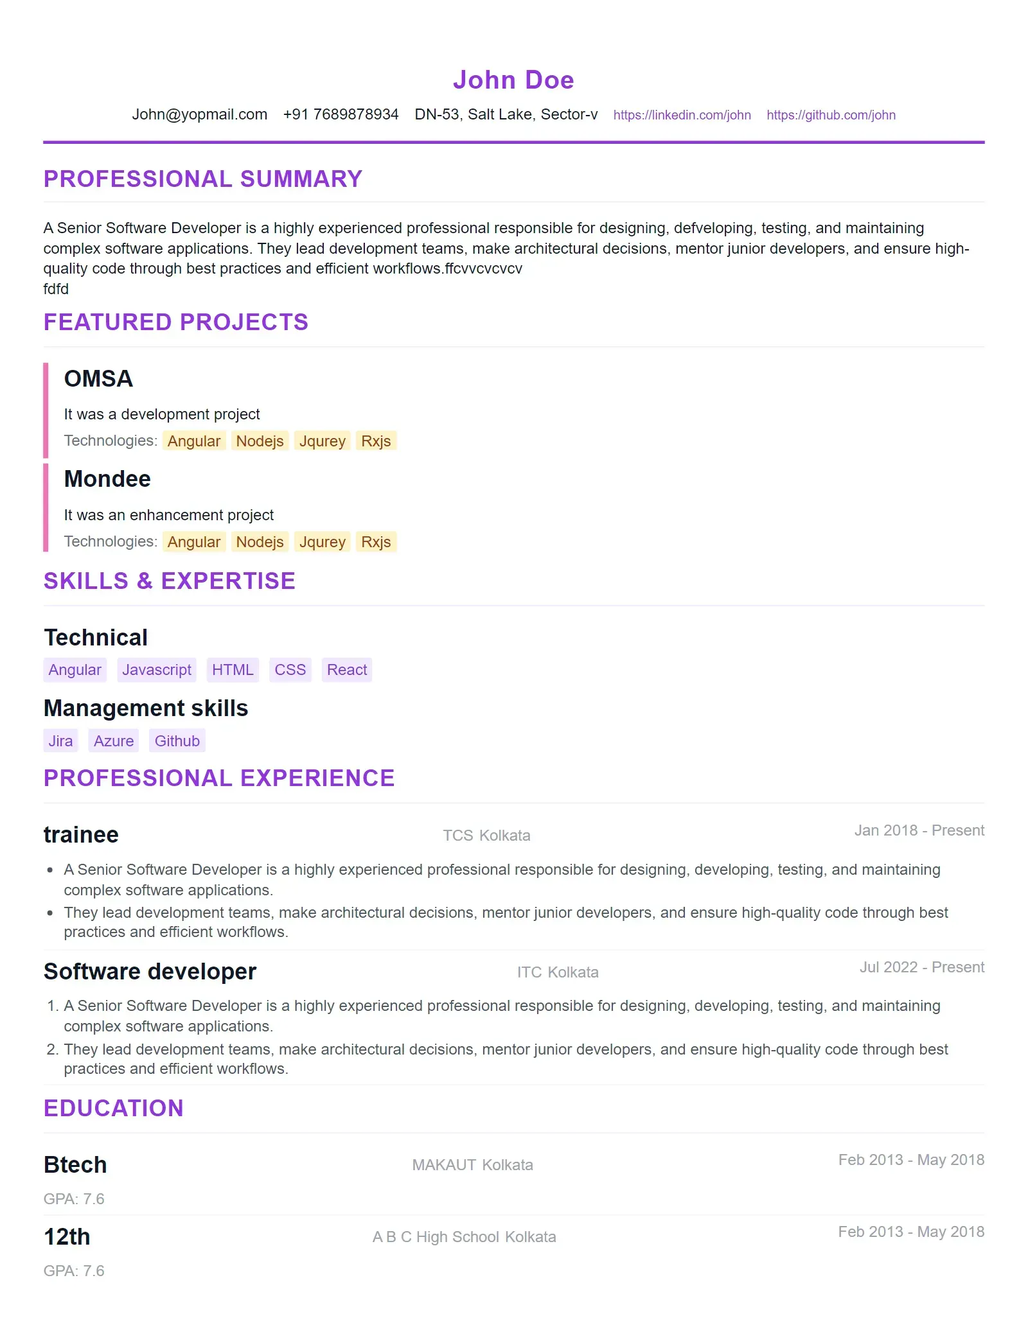
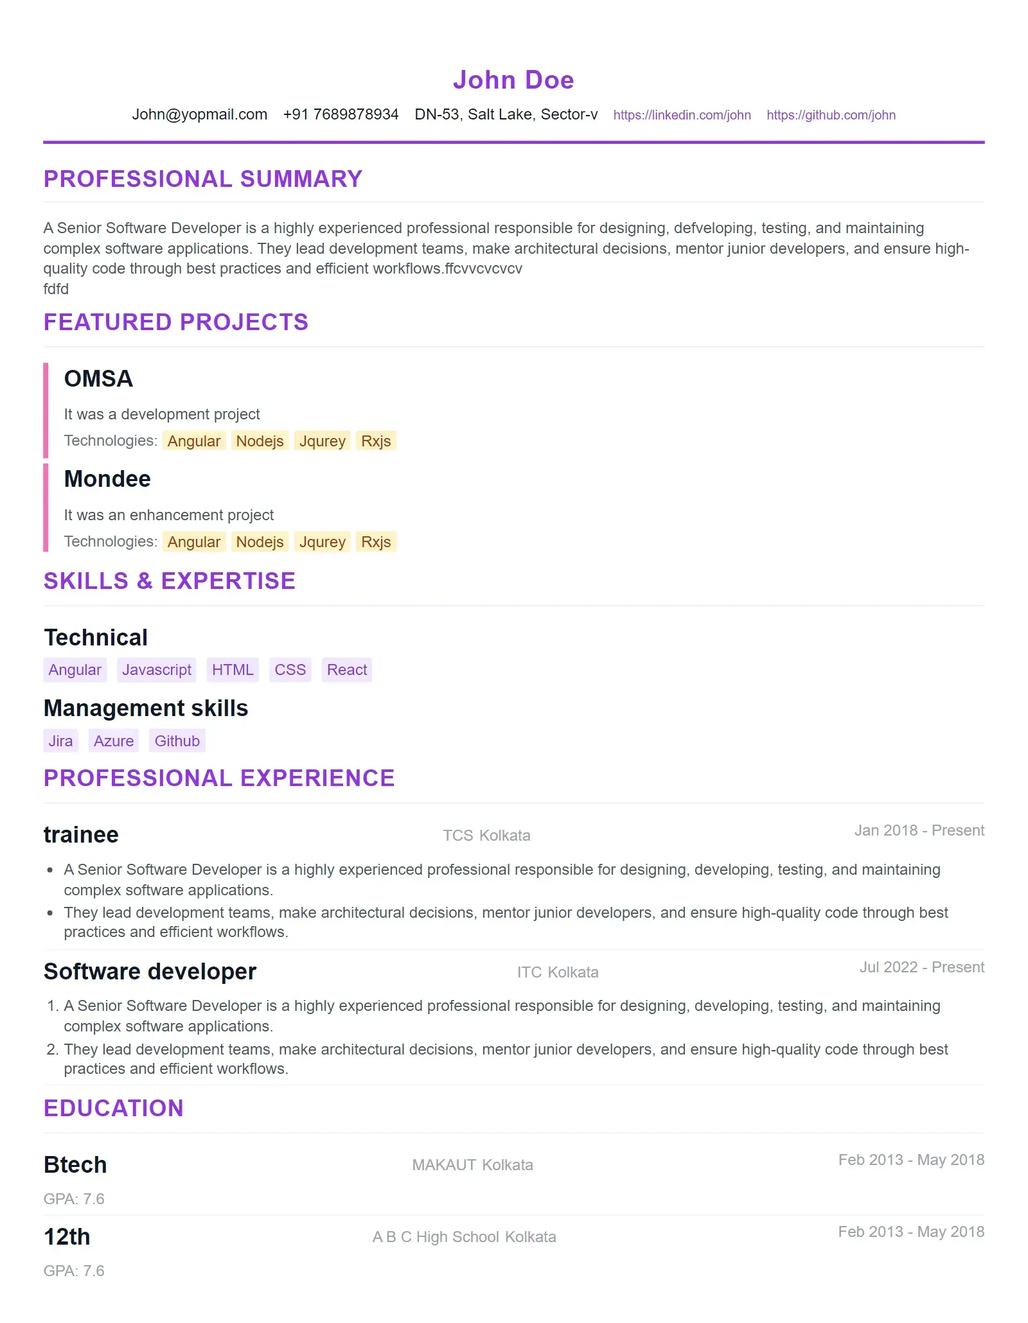
update template classes

Changed region(s): [[0.0312, 0.1864, 0.5, 0.2175]]

diff --git a/backend/assets/professionalTemplate.js b/backend/assets/professionalTemplate.js
@@ -86,7 +86,7 @@ module.exports = [
                 {{#if summary}}
                 <section class="summary secondaryFont">
                 <h2 class="primaryFont">Professional Summary</h2>
-                <div class="summary-text secondaryFont" itemprop="description">{{{summary}}}</div>
+                <div class="summary secondaryFont" itemprop="description">{{{summary}}}</div>
                 </section>
                 {{/if}}
                 
@@ -256,14 +256,14 @@ module.exports = [
         section { margin-bottom: 12px; }
         h2 { font-weight: 600; color: #1e40af; margin-bottom: 2px; padding-bottom: 4px; border-bottom: 2px solid #e5e7eb; position: relative; }
         h2::after { content: ''; position: absolute; bottom: -2px; left: 0; width: 18px; height: 2px; background: #1e40af; }
-        .summary-text { line-height: 1.4; color: #4b5563; text-align: justify; }
+        .summary { line-height: 1.4; color: #4b5563; text-align: justify; }
         
         .job-entry, .edu-entry, .project-entry, .achievement-entry { margin-bottom: 8px; padding-bottom: 6px; border-bottom: 1px solid #f3f4f6; }
         .job-header, .edu-header, .project-header { display: flex; justify-content: space-between; align-items: flex-start; margin-bottom: 2px; }
         .job-title-company h3, .edu-title-institution h3, .project-header h3, .achievement-entry .achievement-title { font-weight: 600; color: #1f2937; margin-bottom: 2px; }
         .company-location, .institution-location { display: flex; gap: 4px; color: #6b7280; }
         .dates { color: #9ca3af; font-weight: 500; text-align: right; }
-        .description, .project-description, .job-description, .edu-description, .achievement-description { 
+        .summary, .job-description, .project-description, .edu-description, .achievement-description { 
             margin-bottom: 6px; 
             color: #4b5563; 
             line-height: 1.4; 
@@ -457,7 +457,7 @@ module.exports = [
                       <div class="location secondaryFont">{{location}}</div>
                     {{/if}}
                     {{#if description}}
-                      <div class="description secondaryFont">{{{description}}}</div>
+                      <div class="job-description secondaryFont">{{{description}}}</div>
                     {{/if}}
                     {{#if achievements}}
                       <ul class="role-achievements secondaryFont">
@@ -478,7 +478,7 @@ module.exports = [
                   <div class="project-item">
                     <strong class="secondaryFont">{{name}}</strong>
                     {{#if description}}
-                      <div class="description secondaryFont">{{{description}}}</div>
+                      <div class="project-description secondaryFont">{{{description}}}</div>
                     {{/if}}
                     {{#if technologies}}
                       <div class="project-technologies secondaryFont">
@@ -522,7 +522,7 @@ module.exports = [
                       <div class="gpa secondaryFont">GPA: {{gpa}}</div>
                     {{/if}}
                     {{#if description}}
-                      <div class="education-description secondaryFont">{{{description}}}</div>
+                      <div class="edu-description secondaryFont">{{{description}}}</div>
                     {{/if}}
                   </div>
                 {{/each}}
@@ -652,7 +652,7 @@ module.exports = [
           .institution { color: #1e3a8a; font-weight: 400; margin-bottom: 2px; }
           .edu-dates { color: #64748b; font-style: italic; }
           .gpa { color: #64748b; margin-top: 2px; font-weight: 400;}
-          .education-description { line-height: 1.3; color: #374151; margin: 2px 0; }
+          .edu-description { line-height: 1.3; color: #374151; margin: 2px 0; }
           .competencies-grid { display: flex; flex-direction: column; gap: 2px; }
           .competency-title { font-weight: 600; color: #1f2937; margin-bottom: 2px; }
           .competency-items { color: #374151; line-height: 1; }
@@ -766,7 +766,7 @@ module.exports = [
               {{#if summary}}
               <section class="summary secondaryFont">
                 <h3 class="primaryFont">Professional Summary</h3>
-                <div class="summary-text secondaryFont" itemprop="description">{{{summary}}}</div>
+                <div class="summary secondaryFont" itemprop="description">{{{summary}}}</div>
               </section>
               {{/if}}
               
@@ -817,7 +817,7 @@ module.exports = [
                 {{#each projects}}
                 <div class="project-item">
                   <div class="project-name primaryFont">{{name}}</div>
-                  {{#if description}}<div class="description secondaryFont">{{{description}}}</div>{{/if}}
+                  {{#if description}}<div class="project-description secondaryFont">{{{description}}}</div>{{/if}}
                   {{#if technologies}}
                   <div class="technologies">
                     <strong class="primaryFont">Technologies:</strong> {{#each technologies}}<span class="tech-tag secondaryFont">{{this}}</span>{{/each}}
@@ -878,7 +878,7 @@ module.exports = [
                 {{#each achievements}}
                 <div class="achievement-item">
                   {{#if title}}<div class="achievement-title primaryFont">{{title}}</div>{{/if}}
-                  {{#if description}}<div class="description secondaryFont">{{{description}}}</div>{{/if}}
+                  {{#if description}}<div class="achievement-description secondaryFont">{{{description}}}</div>{{/if}}
                    {{#if date}}<div class="achievement-date secondaryFont">{{formatDate date}}</div>{{/if}}
                    {{#if issuer}}<div class="achievement-issuer secondaryFont">{{issuer}}</div>{{/if}}
                 </div>

diff --git a/backend/assets/classicTemplates.js b/backend/assets/classicTemplates.js
@@ -63,7 +63,7 @@ module.exports = [
             {{#if summary}}
             <section class="objective secondaryFont">
               <h2 class="primaryFont">PROFESSIONAL OBJECTIVE</h2>
-              <div class="summary-text secondaryFont" itemprop="description">{{{summary}}}</div>
+              <div class="summary secondaryFont" itemprop="description">{{{summary}}}</div>
             </section>
             {{/if}}
             
@@ -214,7 +214,7 @@ module.exports = [
           .dates { font-style: italic; }
           
           .company-info, .institution-info, .cert-issuer, .issuer-info { margin-bottom: 2px; }
-          .job-description, .edu-description, .project-description, .achievement-description { margin: 2px 0; text-align: justify; }
+          .summary, .job-description, .edu-description, .project-description, .achievement-description { margin: 2px 0; text-align: justify; }
           
           .achievements { margin: 2px 0; }
           .achievements li { margin-bottom: 2px; }
@@ -329,7 +329,7 @@ module.exports = [
               {{#if summary}}
                 <section class="summary-section">
                   <h2 class="primaryFont">PROFESSIONAL SUMMARY</h2>
-                  <div class="secondaryFont">{{{summary}}}</div>
+                  <div class="summary secondaryFont">{{{summary}}}</div>
                 </section>
               {{/if}}
               
@@ -373,7 +373,7 @@ module.exports = [
                         <div class="gpa secondaryFont">GPA: {{gpa}}</div>
                       {{/if}}
                       {{#if description}}
-                        <div class="education-description secondaryFont">{{{description}}}</div>
+                        <div class="edu-description secondaryFont">{{{description}}}</div>
                       {{/if}}
                     </div>
                   {{/each}}
@@ -460,7 +460,7 @@ module.exports = [
             .website { color: #6b7280;} .website a { color: #6b7280; text-decoration: none; }
             section { margin-bottom: 6px; }
             section h2 { font-weight: bold; color: #1f2937; text-transform: uppercase; margin-bottom: 6px; border-bottom: 1px solid #1f2937; padding-bottom: 2px; letter-spacing: 0.5px; }
-            .summary-section p { line-height: 1; color: #1f2937; text-align: justify; }
+            .summary { line-height: 1; color: #1f2937; text-align: justify; }
             .job-entry { margin-top: 2px; margin-bottom: 2px; padding-bottom: 2px; border-bottom: 1px dotted #6b7280; }
             .job-title-line { display: flex; justify-content: space-between; align-items: baseline; margin-bottom: 2px; }
             .job-title-line h3 { color: #1f2937; font-weight: bold; margin: 0; }
@@ -473,7 +473,7 @@ module.exports = [
             .edu-dates { color: #6b7280; font-style: italic; }
             .school-line { color: #4b5563; margin-bottom: 2px; font-weight: 500; }
             .gpa { color: #6b7280; margin-bottom: 2px; }
-            .education-description { color: #1f2937; line-height: 1; }
+            .edu-description { color: #1f2937; line-height: 1; }
             .project-entry { margin-top: 2px; margin-bottom: 2px; padding-bottom: 2px; border-bottom: 1px dotted #6b7280; }
             .project-line { display: flex; justify-content: space-between; align-items: baseline; margin-bottom: 2px; }
             .project-line h3 { color: #1f2937; font-weight: bold; margin: 0; }
@@ -567,7 +567,7 @@ module.exports = [
                 {{#if summary}}
                 <section class="summary">
                   <h2 class="primaryFont">Professional Summary</h2>
-                  <div class="summary-text secondaryFont" itemprop="description">{{{summary}}}</div>
+                  <div class="summary secondaryFont" itemprop="description">{{{summary}}}</div>
                 </section>
                 {{/if}}
                 
@@ -644,7 +644,7 @@ module.exports = [
                       <div class="project-name primaryFont">{{name}}</div>
                       {{#if startDate}}<div class="project-dates secondaryFont">{{formatDate startDate}} - {{#if endDate}}{{formatDate endDate}}{{else}}Present{{/if}}</div>{{/if}}
                     </div>
-                    {{#if description}}<div class="description secondaryFont">{{{description}}}</div>{{/if}}
+                    {{#if description}}<div class="project-description secondaryFont">{{{description}}}</div>{{/if}}
                     {{#if technologies}}
                     <div class="technologies">
                       <strong class="primaryFont">Technologies:</strong> {{#each technologies}}<span class="tech-tag secondaryFont">{{this}}</span>{{/each}}
@@ -681,7 +681,7 @@ module.exports = [
                   {{#each achievements}}
                   <div class="achievement-item">
                     {{#if title}}<div class="achievement-title primaryFont">{{title}}</div>{{/if}}
-                    {{#if description}}<div class="description secondaryFont">{{{description}}}</div>{{/if}}
+                    {{#if description}}<div class="achievement-description secondaryFont">{{{description}}}</div>{{/if}}
                     {{#if date}}<div class="achievement-date secondaryFont">{{formatDate date}}</div>{{/if}}
                     {{#if issuer}}<div class="achievement-issuer secondaryFont">{{issuer}}</div>{{/if}}
                   </div>
@@ -796,9 +796,11 @@ module.exports = [
                 margin: 2px 0;
               }
               
+              .summary,
               .job-description,
               .project-description,
-              .edu-description {
+              .edu-description,
+              .achievement-description {
                 margin: 3px 0;
                 color: #374151;
                 line-height: 1.4;

diff --git a/backend/assets/minimalistTemplate.js b/backend/assets/minimalistTemplate.js
@@ -63,7 +63,7 @@ module.exports = [
             {{#if summary}}
             <section class="summary">
             <h2 class="primaryFont">Professional Summary</h2>
-            <div class="summary-text secondaryFont" itemprop="description">{{{summary}}}</div>
+            <div class="summary secondaryFont" itemprop="description">{{{summary}}}</div>
             </section>
             {{/if}}
             
@@ -99,7 +99,7 @@ module.exports = [
                     {{#if isCurrentJob}}<span>Present</span>{{else}}<time>{{formatDate endDate}}</time>{{/if}}
                 </span>
                 </div>
-                {{#if description}}<div class="item-description secondaryFont" itemprop="description">{{{description}}}</div>{{/if}}
+                {{#if description}}<div class="job-description secondaryFont" itemprop="description">{{{description}}}</div>{{/if}}
                 {{#if achievements}}
                 <ul class="achievements secondaryFont">
                 {{#each achievements}}<li>{{this}}</li>{{/each}}
@@ -121,7 +121,7 @@ module.exports = [
                     {{#if startDate}}<span class="project-dates secondaryFont">{{formatDate startDate}} - {{#if endDate}}{{formatDate endDate}}{{else}}Present{{/if}}</span>{{/if}}
                 </div>
                 </div>
-                {{#if description}}<div class="item-description secondaryFont">{{{description}}}</div>{{/if}}
+                {{#if description}}<div class="project-description secondaryFont">{{{description}}}</div>{{/if}}
                 {{#if technologies}}
                 <div class="technologies secondaryFont">
                 <div class="tech-label primaryFont">Technologies:</div> {{#each technologies}}<span class="tech-tag">{{this}}</span>{{/each}}
@@ -151,7 +151,7 @@ module.exports = [
                 </span>
                 </div>
                 {{#if gpa}}<div class="gpa secondaryFont">GPA: {{gpa}}</div>{{/if}}
-                {{#if description}}<div class="item-description secondaryFont">{{{description}}}</div>{{/if}}
+                {{#if description}}<div class="edu-description secondaryFont">{{{description}}}</div>{{/if}}
             </div>
             {{/each}}
             </section>
@@ -163,7 +163,7 @@ module.exports = [
             {{#each achievements}}
             <div class="achievement-item">
                 {{#if title}}<div class="achievement-title primaryFont">{{title}}</div>{{/if}}
-                {{#if description}}<div class="item-description secondaryFont">{{{description}}}</div>{{/if}}
+                {{#if description}}<div class="achievement-description secondaryFont">{{{description}}}</div>{{/if}}
                 {{#if date}}<div class="achievement-date secondaryFont">{{formatDate date}}</div>{{/if}}
                 {{#if issuer}}<div class="achievement-issuer secondaryFont">{{issuer}}</div>{{/if}}
             </div>
@@ -224,7 +224,7 @@ module.exports = [
         .contact-item { display: flex; align-items: center; }
         .contact-item a { color: #6b7280; text-decoration: none; }
         .summary { margin-bottom: 6px; }
-        .summary-text { color: #4b5563; line-height: 1; text-align: justify; }
+        .summary { color: #4b5563; line-height: 1; text-align: justify; }
         section { margin-bottom: 6px; }
         h2 { font-weight: 600; color: #1f2937; margin-bottom: 4px; padding-bottom: 2px; border-bottom: 1px solid #e5e7eb; }
         .experience-item, .education-item, .project-item, .achievement-item, .cert-item { margin-bottom: 2px; padding-bottom: 2px; }
@@ -232,7 +232,7 @@ module.exports = [
         .item-title h3, .achievement-item .achievement-title, .custom-field h3 { font-weight: 600; color: #1f2937; margin-bottom: 2px; }
         .company, .institution, .location, .cert-issuer { color: #6b7280; }
         .dates { color: #9ca3af; font-weight: 500; }
-        .item-description, .custom-content { margin: 2px 0; color: #4b5563; line-height: 1; }
+        .summary, .job-description, .edu-description, .project-description, .achievement-description, .custom-content { margin: 2px 0; color: #4b5563; line-height: 1; }
         .achievements { margin: 2px 0; }
         .achievements li { margin-bottom: 2px; color: #4b5563; }
         

diff --git a/backend/assets/modernTemplates.js b/backend/assets/modernTemplates.js
@@ -64,7 +64,7 @@ module.exports = [
               {{#if summary}}
               <section class="summary secondaryFont">
                 <h3 class="primaryFont">Professional Summary</h3>
-                <div class="summary-text secondaryFont" itemprop="description">{{{summary}}}</div>
+                <div class="summary secondaryFont" itemprop="description">{{{summary}}}</div>
               </section>
               {{/if}}
               
@@ -353,7 +353,7 @@ module.exports = [
             {{#if summary}}
             <section class="executive-summary secondaryFont">
               <h3 class="primaryFont">Executive Summary</h3>
-              <div class="summary-text secondaryFont" itemprop="description">{{{summary}}}</div>
+              <div class="summary secondaryFont" itemprop="description">{{{summary}}}</div>
             </section>
             {{/if}}
             
@@ -506,7 +506,7 @@ module.exports = [
            section { margin-top: 1rem; }
            h3 { font-weight: 600; color: #1f2937; margin-bottom: 0.5rem; position: relative; padding-bottom: 0.25rem; }
            h3::after { content: ''; position: absolute; bottom: 0; left: 0; width: 30px; height: 2px; background: #f59e0b; }
-           .executive-summary .summary-text { line-height: 1; color: #4b5563; font-style: italic; text-align: justify; }
+           .executive-summary .summary { line-height: 1; color: #4b5563; font-style: italic; text-align: justify; }
           .position, .edu-entry, .project-item, .achievement-item { margin-bottom: 0.5rem; }
           .position-header, .edu-header { display: flex; justify-content: space-between; align-items: flex-start; margin-bottom: 0.25rem; }
           .position-title, .edu-degree, .project-name, .achievement-title { font-weight: 600; color: #1f2937; margin-bottom: 0.25rem; }
@@ -623,7 +623,7 @@ module.exports = [
             {{#if summary}}
             <section class="summary-section">
               <h3 class="primaryFont">Professional Summary</h3>
-              <div class="summary-text secondaryFont" itemprop="description">{{{summary}}}</div>
+              <div class="summary secondaryFont" itemprop="description">{{{summary}}}</div>
             </section>
             {{/if}}
             
@@ -888,7 +888,7 @@ module.exports = [
               {{#if summary}}
               <section class="summary secondaryFont">
                 <h3 class="primaryFont">Professional Summary</h3>
-                <div class="summary-text secondaryFont" itemprop="description">{{{summary}}}</div>
+                <div class="summary secondaryFont" itemprop="description">{{{summary}}}</div>
               </section>
               {{/if}}
               
@@ -1186,7 +1186,7 @@ module.exports = [
             {{#if summary}}
             <section class="summary">
               <h2 class="primaryFont">Professional Summary</h2>
-              <div class="summary-text secondaryFont" itemprop="description">{{{summary}}}</div>
+              <div class="summary secondaryFont" itemprop="description">{{{summary}}}</div>
             </section>
             {{/if}}
             
@@ -1455,7 +1455,7 @@ module.exports = [
             {{#if summary}}
             <section class="summary">
               <h2 class="primaryFont">Professional Summary</h2>
-              <div class="summary-text secondaryFont" itemprop="description">{{{summary}}}</div>
+              <div class="summary secondaryFont" itemprop="description">{{{summary}}}</div>
             </section>
             {{/if}}
             
@@ -1721,7 +1721,7 @@ module.exports = [
             {{#if summary}}
             <section class="summary">
               <h2 class="primaryFont">Professional Summary</h2>
-              <div class="summary-text secondaryFont" itemprop="description">{{{summary}}}</div>
+              <div class="summary secondaryFont" itemprop="description">{{{summary}}}</div>
             </section>
             {{/if}}
             

diff --git a/backend/assets/creativeTemplate.js b/backend/assets/creativeTemplate.js
@@ -184,7 +184,7 @@ module.exports = [
                             {{formatDate startDate}} - {{#if isCurrentJob}}Present{{else}}{{formatDate endDate}}{{/if}}
                           </div>
                           {{#if description}}
-                            <div class="description secondaryFont">{{{description}}}</div>
+                            <div class="job-description secondaryFont">{{{description}}}</div>
                           {{/if}}
                           {{#if achievements}}
                             <ul class="achievements secondaryFont">
@@ -749,7 +749,7 @@ module.exports = [
             {{#if summary}}
             <section class="summary">
               <h2 class="primaryFont">Professional Summary</h2>
-              <div class="summary-text secondaryFont" itemprop="description">{{{summary}}}</div>
+              <div class="summary secondaryFont" itemprop="description">{{{summary}}}</div>
             </section>
             {{/if}}
             
@@ -762,7 +762,7 @@ module.exports = [
                   <div class="project-name primaryFont">{{name}}</div>
                   {{#if startDate}}<div class="project-dates secondaryFont">{{formatDate startDate}} - {{#if endDate}}{{formatDate endDate}}{{else}}Present{{/if}}</div>{{/if}}
                 </div>
-                {{#if description}}<div class="description secondaryFont">{{{description}}}</div>{{/if}}
+                {{#if description}}<div class="project-description secondaryFont">{{{description}}}</div>{{/if}}
                 {{#if technologies}}
                 <div class="technologies secondaryFont">
                   <strong class="primaryFont">Technologies:</strong> {{#each technologies}}<span class="tech-tag">{{this}}</span>{{/each}}
@@ -863,7 +863,7 @@ module.exports = [
               {{#each achievements}}
               <div class="achievement-item">
                 {{#if title}}<div class="achievement-title primaryFont">{{title}}</div>{{/if}}
-                {{#if description}}<div class="description secondaryFont">{{{description}}}</div>{{/if}}
+                {{#if description}}<div class="achievement-description secondaryFont">{{{description}}}</div>{{/if}}
                 {{#if date}}<div class="achievement-date secondaryFont">{{formatDate date}}</div>{{/if}}
                 {{#if issuer}}<div class="achievement-issuer secondaryFont">{{issuer}}</div>{{/if}}
               </div>
@@ -918,7 +918,7 @@ module.exports = [
           .job-title, .edu-degree { font-weight: 600; color: #111827; margin-bottom: 2px; }
           .job-meta, .edu-meta { color: #6b7280; }
           .job-dates, .edu-dates { color: #9ca3af; font-weight: 500; }
-          .job-description, .edu-description, .achievement-description { margin: 4px 0; color: #4b5563; line-height: 1.4; }
+          .summary, .job-description, .edu-description, .project-description, .achievement-description { margin: 4px 0; color: #4b5563; line-height: 1.4; }
           .achievements { margin: 4px 0; }
           .achievements li { margin-bottom: 2px; color: #4b5563; }
           

diff --git a/backend/assets/academicTemplate.js b/backend/assets/academicTemplate.js
@@ -65,7 +65,7 @@ module.exports = [
             {{#if summary}}
             <section class="research-interests">
             <h2 class="primaryFont">Research Interests</h2>
-            <div class="summary-text secondaryFont" itemprop="description">{{{summary}}}</div>
+            <div class="summary secondaryFont" itemprop="description">{{{summary}}}</div>
             </section>
             {{/if}}
             
@@ -98,7 +98,7 @@ module.exports = [
                     {{#if isCurrentJob}}<span>Present</span>{{else}}<time>{{formatDate endDate}}</time>{{/if}}
                 </div>
                 </div>
-                {{#if description}}<div class="position-description secondaryFont" itemprop="description">{{{description}}}</div>{{/if}}
+                {{#if description}}<div class="job-description secondaryFont" itemprop="description">{{{description}}}</div>{{/if}}
             </div>
             {{/each}}
             </section>
@@ -110,7 +110,7 @@ module.exports = [
             {{#each projects}}
             <div class="publication-entry">
                 <strong class="project-name primaryFont">{{name}}</strong>
-                {{#if description}}<div class="publication-description secondaryFont">{{{description}}}</div>{{/if}}
+                {{#if description}}<div class="project-description secondaryFont">{{{description}}}</div>{{/if}}
                 {{#if technologies}}
                 <div class="methodologies secondaryFont">
                 <span class="label">Methodologies/Tools:</span>{{#each technologies}}{{this}}{{#unless @last}}, {{/unless}}{{/each}}
@@ -206,7 +206,7 @@ module.exports = [
         .institution-info { color: #6b7280; font-style: italic; }
         .edu-dates, .job-dates, .project-dates, .cert-dates, .achievement-date { color: #9ca3af; font-weight: 500; }
         .gpa { color: #6b7280; margin-bottom: 2px; }
-        .edu-description, .position-description, .publication-description, .achievement-description { margin: 2px 0; color: #4b5563; line-height: 1.3; text-align: justify; }
+        .summary, .job-description, .edu-description, .project-description, .achievement-description { margin: 2px 0; color: #4b5563; line-height: 1.3; text-align: justify; }
         .methodologies { margin: 2px 0; }
         .methodologies .label { font-weight: 400; color: #6b7280; }
         .publication-entry { border-left: 3px solid #10b981; padding-left: 8px; }
